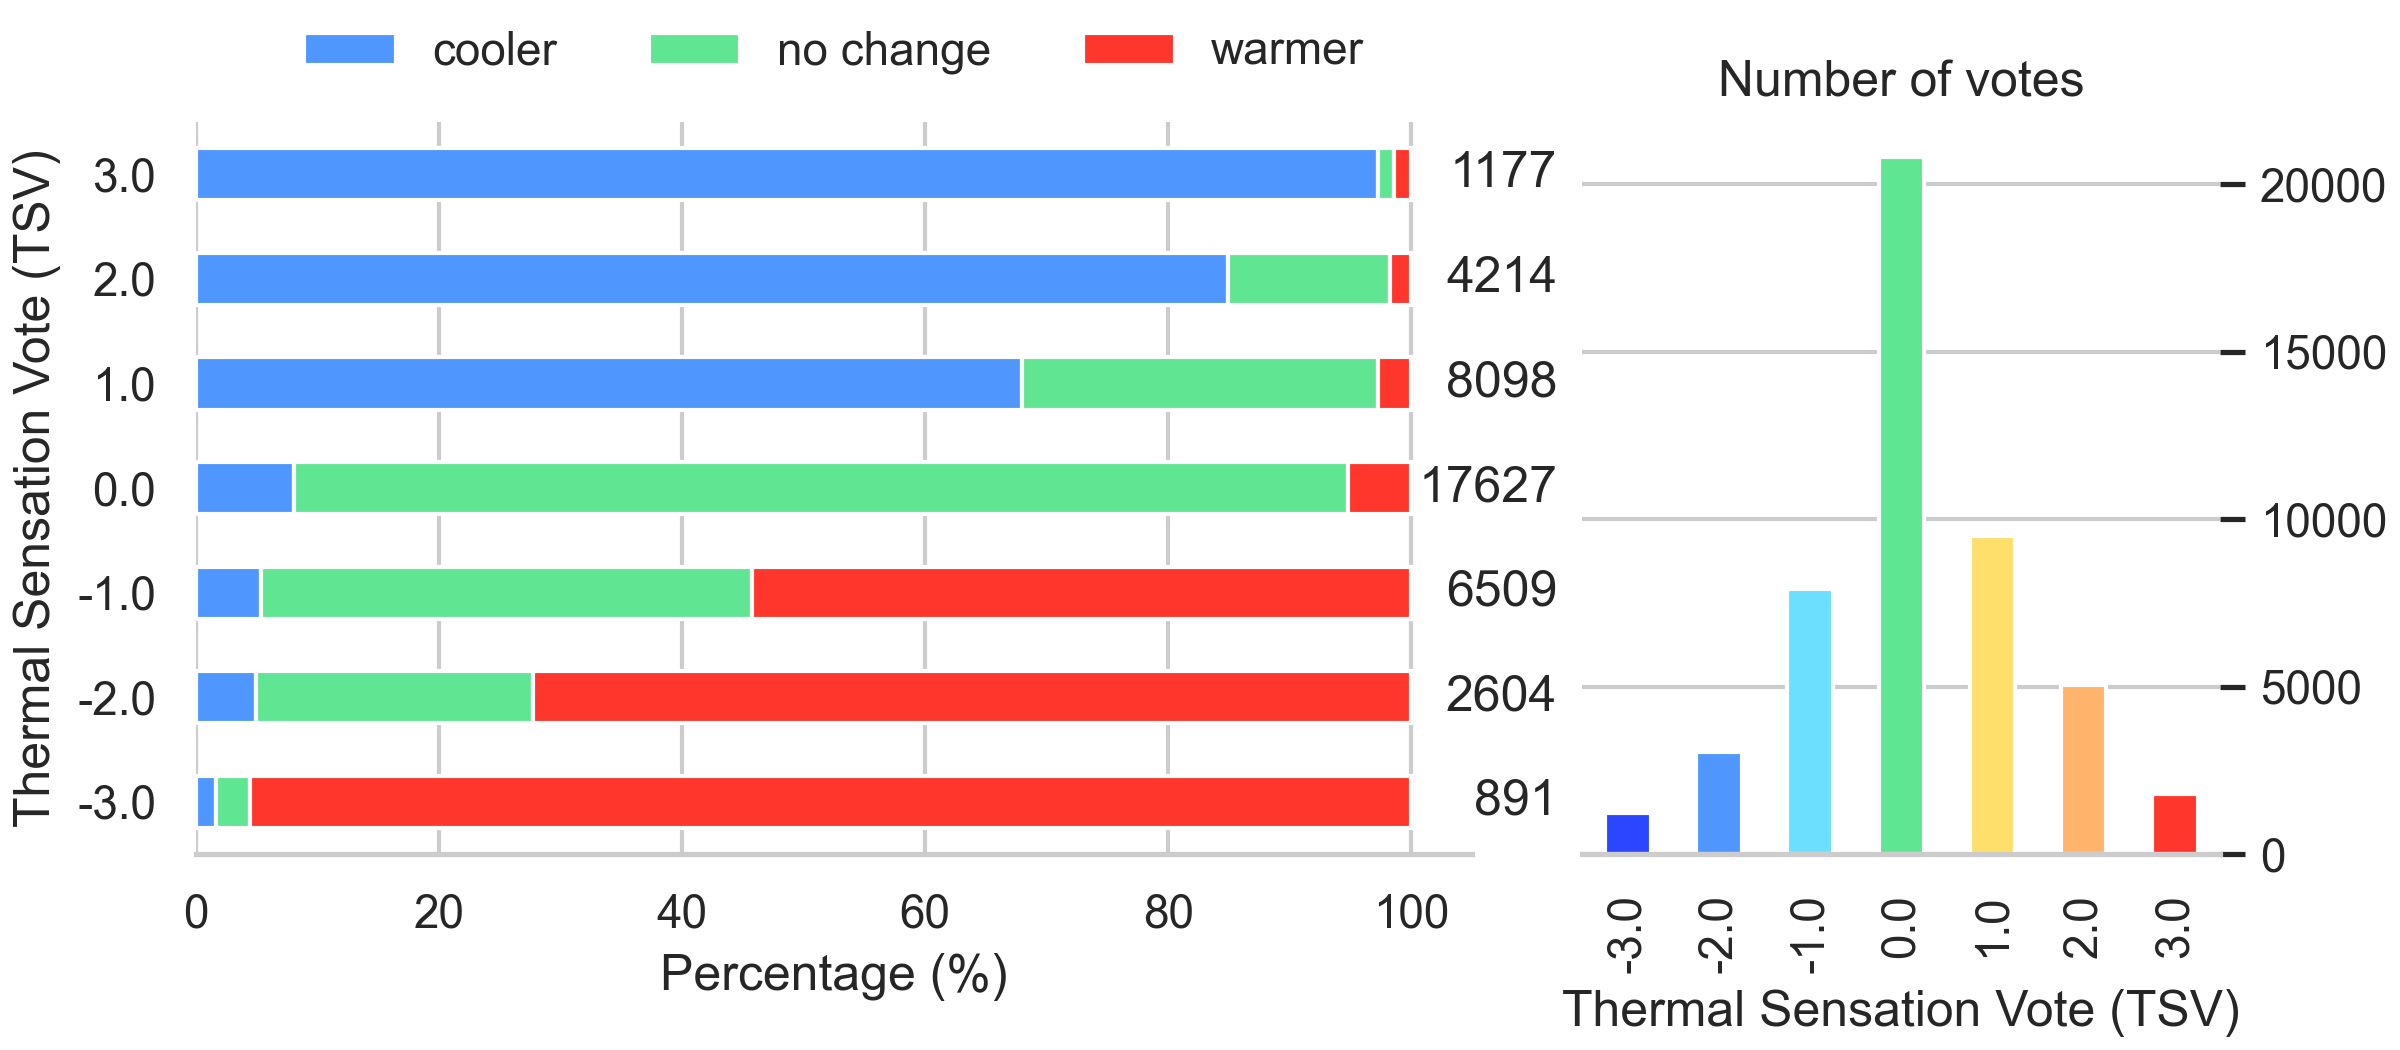
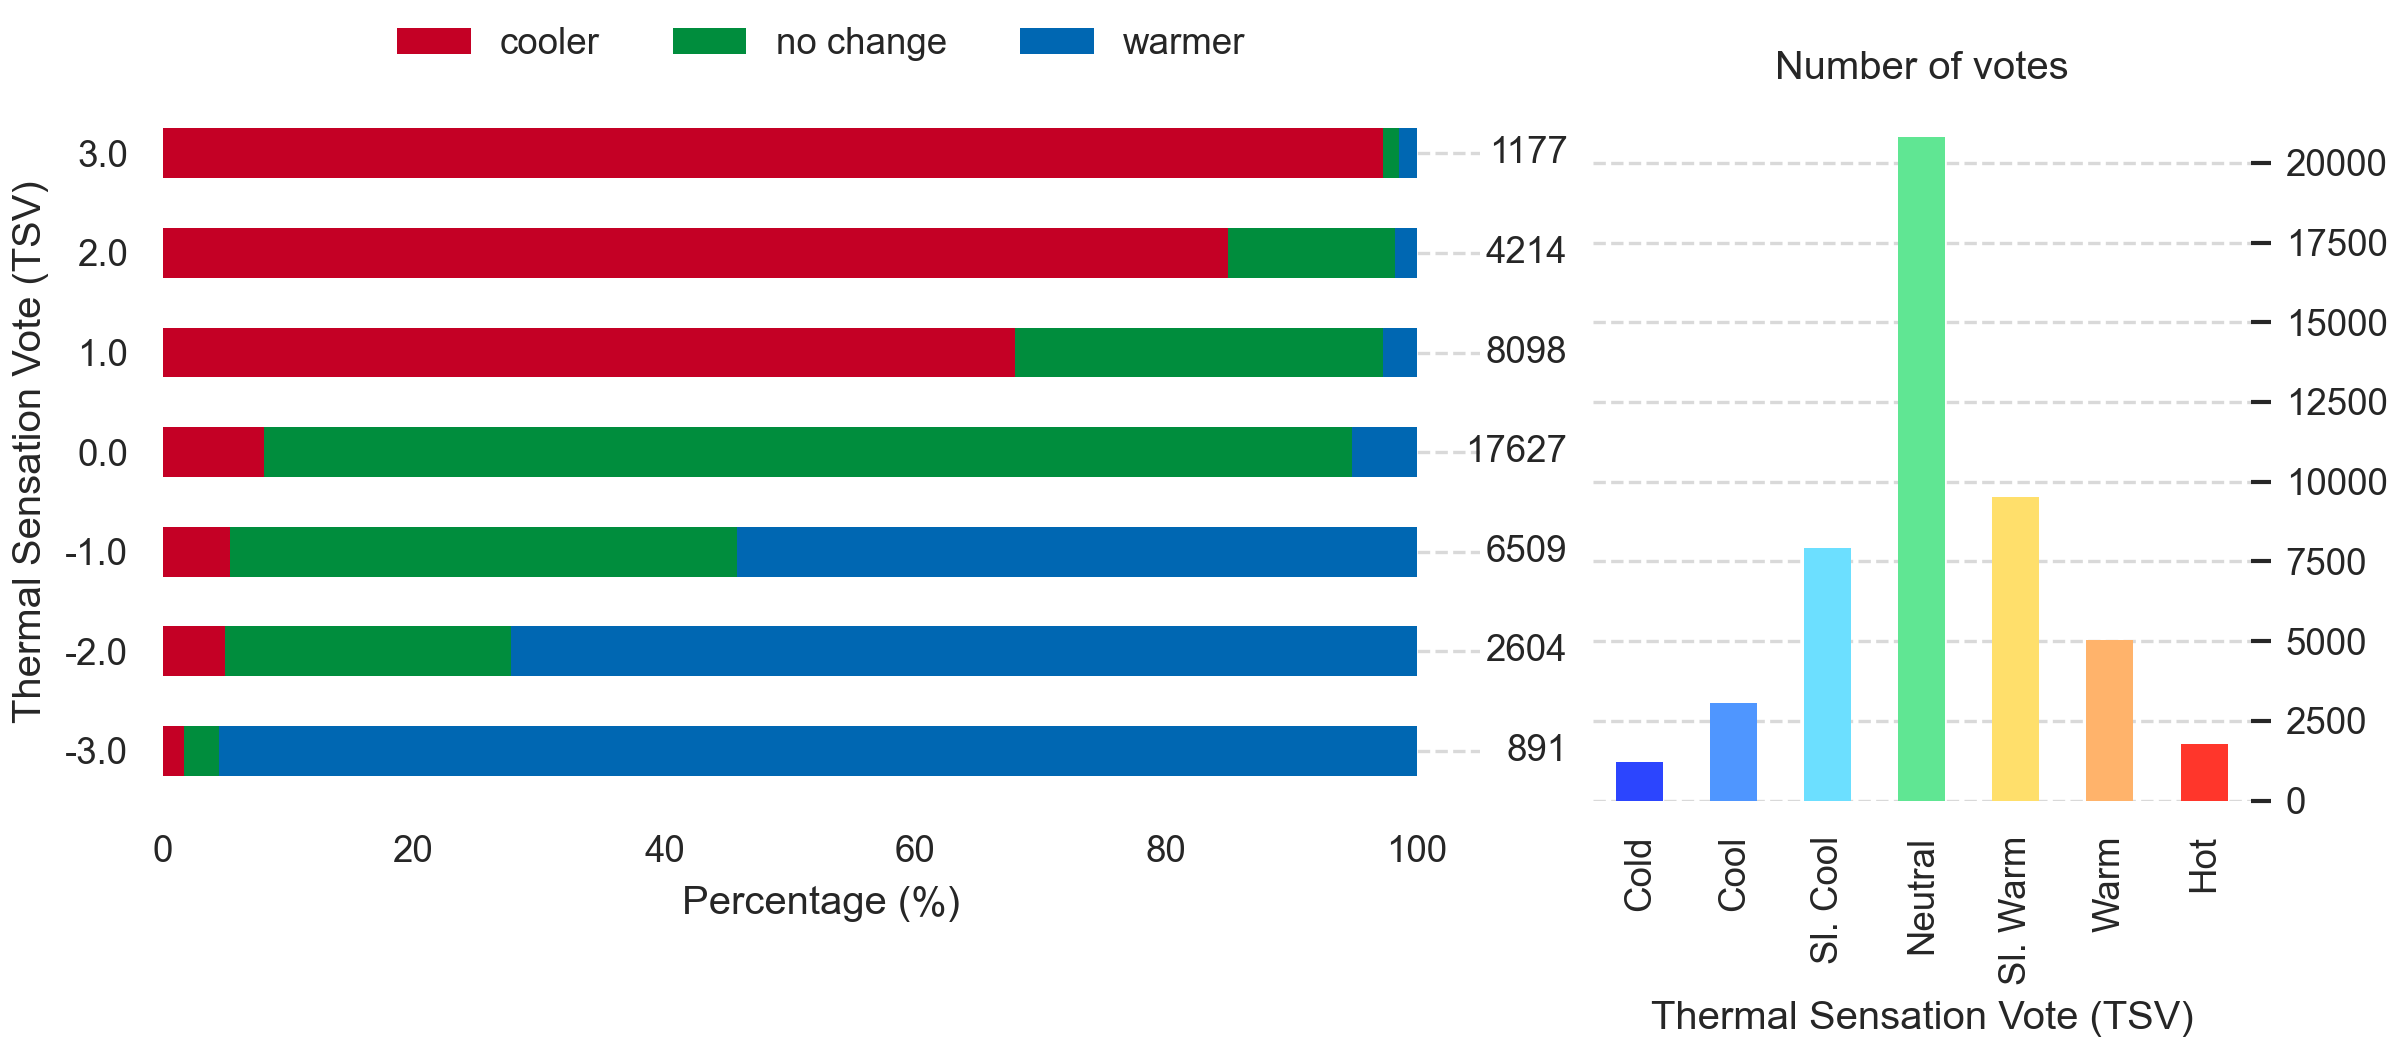
paper: updated Fig 4 and 5

diff --git a/main.py b/main.py
@@ -42,6 +42,11 @@ palette_tp = [
     "#60E693",
     "#FF362B",
 ]
+palette_tp = [
+    "#C40025",
+    "#008D3D",
+    "#0067B2",
+]
 palette_tsv = [
     "#2C45FE",
     "#4F96FF",
@@ -1728,7 +1733,9 @@ def plot_bar_tp_by_ts():
     gs = GridSpec(1, 3, figure=fig)
     ax1 = fig.add_subplot(gs[0, :-1])
     df_plot = df.groupby(x_var)[y_var].value_counts(normalize=True) * 100
-    df_plot.unstack(y_var).plot.barh(stacked=True, color=palette_tp, ax=ax1)
+    df_plot.unstack(y_var).plot.barh(
+        stacked=True, color=palette_tp, ax=ax1, linewidth=0
+    )
     ax1.set(xlabel="Percentage (%)", ylabel=var_names[x_var])
     ax1.legend(
         bbox_to_anchor=(0.5, 1.04),
@@ -1737,15 +1744,28 @@ def plot_bar_tp_by_ts():
         frameon=False,
         ncol=3,
     )
+    ax1.grid()
     ax1.grid(axis="y", ls="--")
     for ix, row in df_count.reset_index().iterrows():
         ax1.text(112, ix, int(row[y_var]), va="center", ha="right")
 
     ax2 = fig.add_subplot(gs[0, -1])
-    df.groupby(x_var)[x_var].count().plot.bar(color=palette_tsv, ax=ax2)
+    df.groupby(x_var)[x_var].count().plot.bar(color=palette_tsv, ax=ax2, linewidth=0)
     ax2.set(ylabel="", xlabel=var_names[x_var], title="Number of votes")
+    ax2.set_xticklabels(
+        [
+            "Cold",
+            "Cool",
+            "Sl. Cool",
+            "Neutral",
+            "Sl. Warm",
+            "Warm",
+            "Hot",
+        ],
+    )
     ax2.yaxis.tick_right()
-    ax2.grid(axis="x", ls="--")
+    ax2.grid()
+    ax2.grid(axis="y", ls="--")
 
     plt.savefig(f"./Manuscript/src/figures/bar_plot_tp_by_ts.png", dpi=300)
 
@@ -1760,9 +1780,7 @@ def plot_stacked_bar_predictions_ts(hb_models=False):
         fig_name = "bar_stacked_model_accuracy_hb"
 
     # Stacked boxplot
-    f, axs = plt.subplots(
-        1, len(models), sharex=True, sharey=True, constrained_layout=True
-    )
+    f, axs = plt.subplots(1, len(models), sharex=True, sharey=True)
     axs = axs.flatten()
 
     for ix, pmv in enumerate(models):
@@ -1779,15 +1797,18 @@ def plot_stacked_bar_predictions_ts(hb_models=False):
                 else:
                     df_plot[x] = np.nan
         df_plot = df_plot[df_plot.columns.sort_values()]
-        df_plot.plot.bar(stacked=True, color=palette_tsv, ax=axs[ix], rot=0)
+        df_plot.plot.bar(
+            stacked=True, color=palette_tsv, ax=axs[ix], rot=0, linewidth=0
+        )
         accuracy = round(
             accuracy_score(df[var].fillna(999), df["thermal_sensation_round"]) * 100
         )
         axs[ix].set(xlabel="")
-        axs[ix].set_title(f"{var_names[pmv]} {accuracy}%", y=1.025)
+        axs[ix].set_title(f"Overall accuracy {var_names[pmv]} {accuracy}%")
         handles, labels = axs[ix].get_legend_handles_labels()
         axs[ix].get_legend().remove()
         axs[ix].grid(False)
+
         df_match = df_plot.stack().reset_index()
         df_match = df_match[df_match["thermal_sensation_round"] == df_match[var]]
         for x in axs[ix].get_xticklabels():
@@ -1795,38 +1816,51 @@ def plot_stacked_bar_predictions_ts(hb_models=False):
                 match = df_match[df_match[var] == float(x._text)][0].values[0]
                 axs[ix].text(
                     x._x,
-                    0.5,
+                    1.025,
                     f"{int(match * 100)}%",
                     va="center",
                     ha="center",
-                    size=10,
-                    rotation=90,
                 )
             except IndexError:
                 axs[ix].text(
                     x._x,
-                    0.5,
+                    1.025,
                     f"0 %",
                     va="center",
                     ha="center",
-                    size=10,
-                    rotation=90,
                 )
+        axs[ix].set_xticklabels(
+            [
+                "Cold",
+                "Cool",
+                "Sl. Cool",
+                "Neutral",
+                "Sl. Warm",
+                "Warm",
+                "Hot",
+            ],
+        )
 
-    plt.subplots_adjust(left=0.05, right=1, bottom=0.2, top=0.85)
-    cax = plt.axes([0, 0.92, 1, 0.05])
+    plt.subplots_adjust(left=0.05, right=1, bottom=0.15, top=0.85)
+    f.supxlabel(var_names["thermal_sensation"])
+    cax = plt.axes([0, 0.95, 1, 0.05])
     cax.axis("off")
 
     cax.legend(
         handles,
-        labels,
+        [
+            "Cold",
+            "Cool",
+            "Sl. Cool",
+            "Neutral",
+            "Sl. Warm",
+            "Warm",
+            "Hot",
+        ],
         frameon=False,
-        # mode="expand",
-        # bbox_to_anchor=(0, 1.1, 1, 0.2),
         loc="upper center",
         ncol=7,
     )
-    f.supxlabel(var_names["thermal_sensation"])
     plt.savefig(f"./Manuscript/src/figures/{fig_name}.png", dpi=300)
 
 

diff --git a/Manuscript/src/sections/results.tex b/Manuscript/src/sections/results.tex
@@ -53,9 +53,10 @@ Thus, on the right, we show a bar chart depicting the distribution of all the \a
 The \ac{tsv} is unbalanced. 
 Approximately \var{perc_tsv_neutral} of all the entries have a \ac{tsv} of `Neutral'.
 While less than \var{perc_tsv_hot} of the total sample of participants reported to be either `Hot' or `Cold'.
-% todo I really do not like this color, they are misleading. If someone want to be "warmer", then it should be shown as blue. I suggest to use the color pallet (figure 3) that Micheal used in the BCA paper. 
-% todo TSV report words not numbers.
-% todo TSV chart the color here should not match the one on the thermal preference scale given that it is a different question. For example, a TSV=3 is red, like people that wants to be warmer, meaning that they are cold. Even with the inversion of the color palette, we cannot imply that TSV=3 mease wanted to be cooler. What about TSV=1, maybe people want no changer or cooler or warmer. Difficult to assume. Better to use two independet color schemes. 
+% todo:
+%  FT - I like my original colour more
+%  SS - TSV chart the color here should not match the one on the thermal preference scale given that it is a different question. For example, a TSV=3 is red, like people that wants to be warmer, meaning that they are cold. Even with the inversion of the color palette, we cannot imply that TSV=3 mease wanted to be cooler. What about TSV=1, maybe people want no changer or cooler or warmer. Difficult to assume. Better to use two independet color schemes.
+%  FT - then also Michael color scheme is wrong since we cannot assume that someone that want to be warm must be cold, they could be already slightly warm but at the same time they may want to be warmed.
 \begin{figure*}[htb!]
     \centering
     \includegraphics[width=\textwidth]{figures/bar_plot_tp_by_ts}
@@ -76,11 +77,10 @@ On the contrary, the \ac{tsv} is ambiguous and does not allow determining if an 
 
 \subsection{Comparison of PMV accuracy in predicting thermal sensation}\label{subsec:model-accuracy-comparison-in-predicting-thermal-sensation}
 The \ac{pmv} was developed with the primary aim of predicting \ac{tsv}, consequently, we are here comparing the prediction accuracy of the two formulations.
-% todo Use the words, not the numbers. Please use the color pallet from Toby's paper. It is hard to notice that these are two distint graph because the legend is moving accross. I suggest to move the legend above and have a thin grey line to separate the two group, another option would be to add a light grey background for the two PMV and show that they are distinct. 
-% todo Move the percentage, on top and move it horizontally.
-% todo remove the white space between the boxes (horizontal lines)
-% todo TSV use words not numbers
-% todo Move this also above the figure, over each column. I would also add the term. Overall accuracy  PMV = 33%
+% todo:
+%  We can use Toby's or Michael but not both, even, though I like mine more
+%  It is hard to notice that these are two distint graph because the legend is moving accross.
+%  and have a thin grey line to separate the two group, another option would be to add a light grey background for the two PMV and show that they are distinct.
 \begin{figure*}[htb!]
     \centering
     \includegraphics[width=\textwidth]{figures/bar_stacked_model_accuracy}
